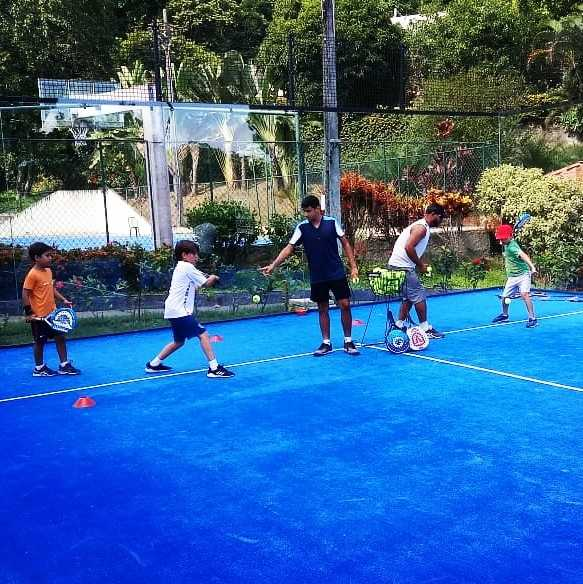
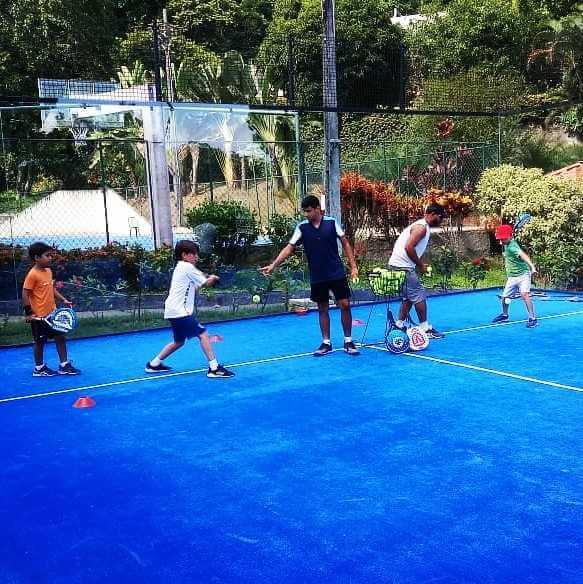
minifiquei as imagens

diff --git a/galeria.html b/galeria.html
@@ -77,7 +77,7 @@
                             <img src="img/padel-galeria3_optimized.jpg" alt="foto-quadra" class="img-galeria hide-img">
                           </div>
                           <div class="col-lg-3 col-sm-6">
-                              <img src="img/padel-galeria4.jpg" alt="foto-quadra" class="img-galeria hide-img">
+                              <img src="img/padel-galeria4_optimized.jpg" alt="foto-quadra" class="img-galeria hide-img">
                           </div>
                       </div>
                   </div>
@@ -86,16 +86,16 @@
                   <div class="container">
                       <div class="row text-center">
                         <div class="col-lg-3 col-sm-6">
-                          <img src="img/padel-galeria5.jpg" alt="foto-aula" class="img-galeria">
+                          <img src="img/padel-galeria5_optimized.jpg" alt="foto-aula" class="img-galeria">
                         </div>
                         <div class="col-lg-3 col-sm-6">
-                          <img src="img/padel-galeria6.jpg" alt="foto-drill" class="img-galeria">
+                          <img src="img/padel-galeria6_optimized.jpg" alt="foto-drill" class="img-galeria">
                         </div>
                         <div class="col-lg-3 col-sm-6">
-                          <img src="img/padel-galeria7.jpg" alt="foto-quadra" class="img-galeria hide-img">
+                          <img src="img/padel-galeria7_optimized.jpg" alt="foto-quadra" class="img-galeria hide-img">
                         </div>
                         <div class="col-lg-3 col-sm-6">
-                          <img src="img/padel-galeria8.jpg" alt="foto-aula" class="img-galeria hide-img">
+                          <img src="img/padel-galeria8_optimized.jpg" alt="foto-aula" class="img-galeria hide-img">
                         </div>
                       </div>
                     </div>
@@ -104,46 +104,46 @@
           </div>
       </section>
       <section id="galeria">
-          <div id="carouselSlideOnly" class="carousel slide" data-ride="carousel">
-              <div class="carousel-inner">
-                <div class="carousel-item">
-                    <div class="container">
-                        <div class="row text-center">
-                            <div class="col-lg-3 col-sm-6">
-                              <img src="img/padel-galeria1_optimized.jpg" alt="foto-aula" class="img-galeria">
-                            </div>
-                            <div class="col-lg-3 col-sm-6">
-                              <img src="img/padel-galeria2_optimized.jpg" alt="foto-drill" class="img-galeria">
-                            </div>
-                            <div class="col-lg-3 col-sm-6">
-                              <img src="img/padel-galeria3_optimized.jpg" alt="foto-quadra" class="img-galeria hide-img">
-                            </div>
-                            <div class="col-lg-3 col-sm-6">
-                                <img src="img/padel-galeria4.jpg" alt="foto-quadra" class="img-galeria hide-img">
-                            </div>
+        <div id="carouselSlideOnly" class="carousel slide" data-ride="carousel">
+            <div class="carousel-inner">
+              <div class="carousel-item">
+                  <div class="container">
+                      <div class="row text-center">
+                          <div class="col-lg-3 col-sm-6">
+                            <img src="img/padel-galeria1_optimized.jpg" alt="foto-aula" class="img-galeria">
+                          </div>
+                          <div class="col-lg-3 col-sm-6">
+                            <img src="img/padel-galeria2_optimized.jpg" alt="foto-drill" class="img-galeria">
+                          </div>
+                          <div class="col-lg-3 col-sm-6">
+                            <img src="img/padel-galeria3_optimized.jpg" alt="foto-quadra" class="img-galeria hide-img">
+                          </div>
+                          <div class="col-lg-3 col-sm-6">
+                              <img src="img/padel-galeria4_optimized.jpg" alt="foto-quadra" class="img-galeria hide-img">
+                          </div>
+                      </div>
+                  </div>
+              </div>
+              <div class="carousel-item active">
+                  <div class="container">
+                      <div class="row text-center">
+                        <div class="col-lg-3 col-sm-6">
+                          <img src="img/padel-galeria5_optimized.jpg" alt="foto-aula" class="img-galeria">
                         </div>
-                    </div>
-                </div>
-                <div class="carousel-item active">
-                    <div class="container">
-                        <div class="row text-center">
-                          <div class="col-lg-3 col-sm-6">
-                            <img src="img/padel-galeria5.jpg" alt="foto-aula" class="img-galeria">
-                          </div>
-                          <div class="col-lg-3 col-sm-6">
-                            <img src="img/padel-galeria6.jpg" alt="foto-drill" class="img-galeria">
-                          </div>
-                          <div class="col-lg-3 col-sm-6">
-                            <img src="img/padel-galeria7.jpg" alt="foto-quadra" class="img-galeria hide-img">
-                          </div>
-                          <div class="col-lg-3 col-sm-6">
-                            <img src="img/padel-galeria8.jpg" alt="foto-aula" class="img-galeria hide-img">
-                          </div>
+                        <div class="col-lg-3 col-sm-6">
+                          <img src="img/padel-galeria6_optimized.jpg" alt="foto-drill" class="img-galeria">
+                        </div>
+                        <div class="col-lg-3 col-sm-6">
+                          <img src="img/padel-galeria7_optimized.jpg" alt="foto-quadra" class="img-galeria hide-img">
+                        </div>
+                        <div class="col-lg-3 col-sm-6">
+                          <img src="img/padel-galeria8_optimized.jpg" alt="foto-aula" class="img-galeria hide-img">
                         </div>
                       </div>
-                </div>
+                    </div>
               </div>
             </div>
+          </div>
       </section>
       <section id="galeria">
         <div id="carouselSlideOnly" class="carousel slide" data-ride="carousel">
@@ -161,7 +161,7 @@
                             <img src="img/padel-galeria3_optimized.jpg" alt="foto-quadra" class="img-galeria hide-img">
                           </div>
                           <div class="col-lg-3 col-sm-6">
-                              <img src="img/padel-galeria4.jpg" alt="foto-quadra" class="img-galeria hide-img">
+                              <img src="img/padel-galeria4_optimized.jpg" alt="foto-quadra" class="img-galeria hide-img">
                           </div>
                       </div>
                   </div>
@@ -170,16 +170,16 @@
                   <div class="container">
                       <div class="row text-center">
                         <div class="col-lg-3 col-sm-6">
-                          <img src="img/padel-galeria5.jpg" alt="foto-aula" class="img-galeria">
+                          <img src="img/padel-galeria5_optimized.jpg" alt="foto-aula" class="img-galeria">
                         </div>
                         <div class="col-lg-3 col-sm-6">
-                          <img src="img/padel-galeria6.jpg" alt="foto-drill" class="img-galeria">
+                          <img src="img/padel-galeria6_optimized.jpg" alt="foto-drill" class="img-galeria">
                         </div>
                         <div class="col-lg-3 col-sm-6">
-                          <img src="img/padel-galeria7.jpg" alt="foto-quadra" class="img-galeria hide-img">
+                          <img src="img/padel-galeria7_optimized.jpg" alt="foto-quadra" class="img-galeria hide-img">
                         </div>
                         <div class="col-lg-3 col-sm-6">
-                          <img src="img/padel-galeria8.jpg" alt="foto-aula" class="img-galeria hide-img">
+                          <img src="img/padel-galeria8_optimized.jpg" alt="foto-aula" class="img-galeria hide-img">
                         </div>
                       </div>
                     </div>

diff --git a/index.html b/index.html
@@ -181,7 +181,7 @@
                           <img src="img/padel-galeria3_optimized.jpg" alt="foto-quadra" class="img-galeria hide-img">
                         </div>
                         <div class="col-lg-3 col-sm-6">
-                            <img src="img/padel-galeria4.jpg" alt="foto-quadra" class="img-galeria hide-img">
+                            <img src="img/padel-galeria4_optimized.jpg" alt="foto-quadra" class="img-galeria hide-img">
                         </div>
                     </div>
                 </div>
@@ -190,16 +190,16 @@
                 <div class="container">
                     <div class="row text-center">
                       <div class="col-lg-3 col-sm-6">
-                        <img src="img/padel-galeria5.jpg" alt="foto-aula" class="img-galeria">
+                        <img src="img/padel-galeria5_optimized.jpg" alt="foto-aula" class="img-galeria">
                       </div>
                       <div class="col-lg-3 col-sm-6">
-                        <img src="img/padel-galeria6.jpg" alt="foto-drill" class="img-galeria">
+                        <img src="img/padel-galeria6_optimized.jpg" alt="foto-drill" class="img-galeria">
                       </div>
                       <div class="col-lg-3 col-sm-6">
-                        <img src="img/padel-galeria7.jpg" alt="foto-quadra" class="img-galeria hide-img">
+                        <img src="img/padel-galeria7_optimized.jpg" alt="foto-quadra" class="img-galeria hide-img">
                       </div>
                       <div class="col-lg-3 col-sm-6">
-                        <img src="img/padel-galeria8.jpg" alt="foto-aula" class="img-galeria hide-img">
+                        <img src="img/padel-galeria8_optimized.jpg" alt="foto-aula" class="img-galeria hide-img">
                       </div>
                     </div>
                   </div>
